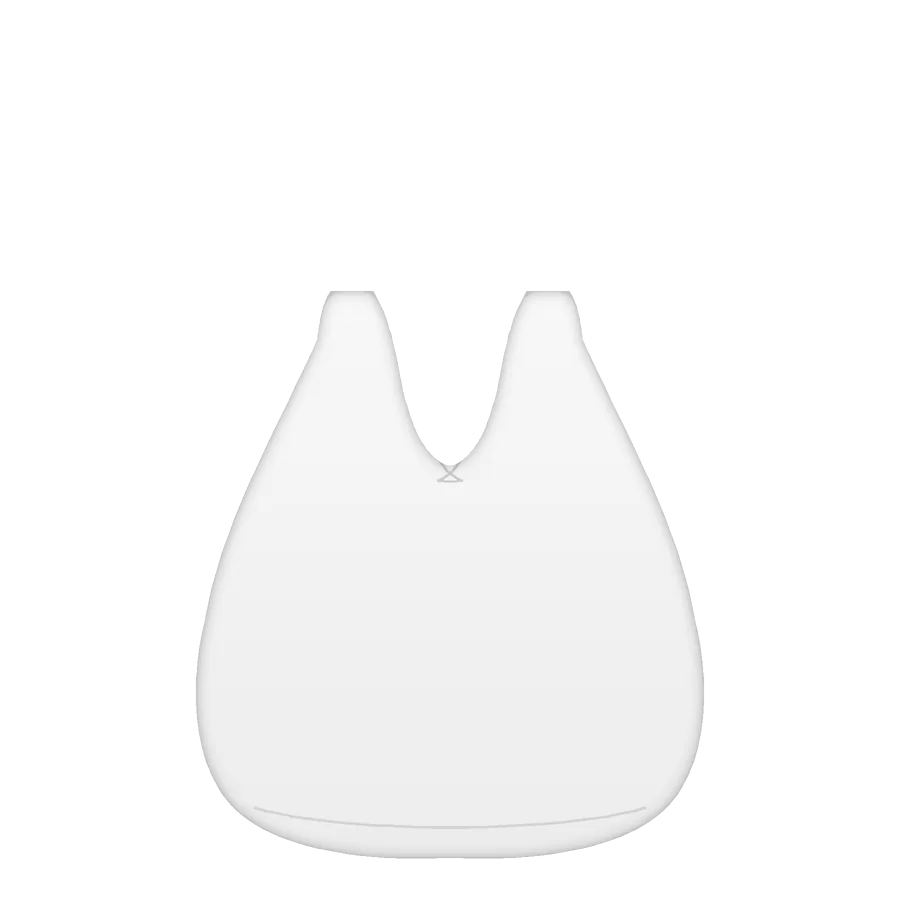
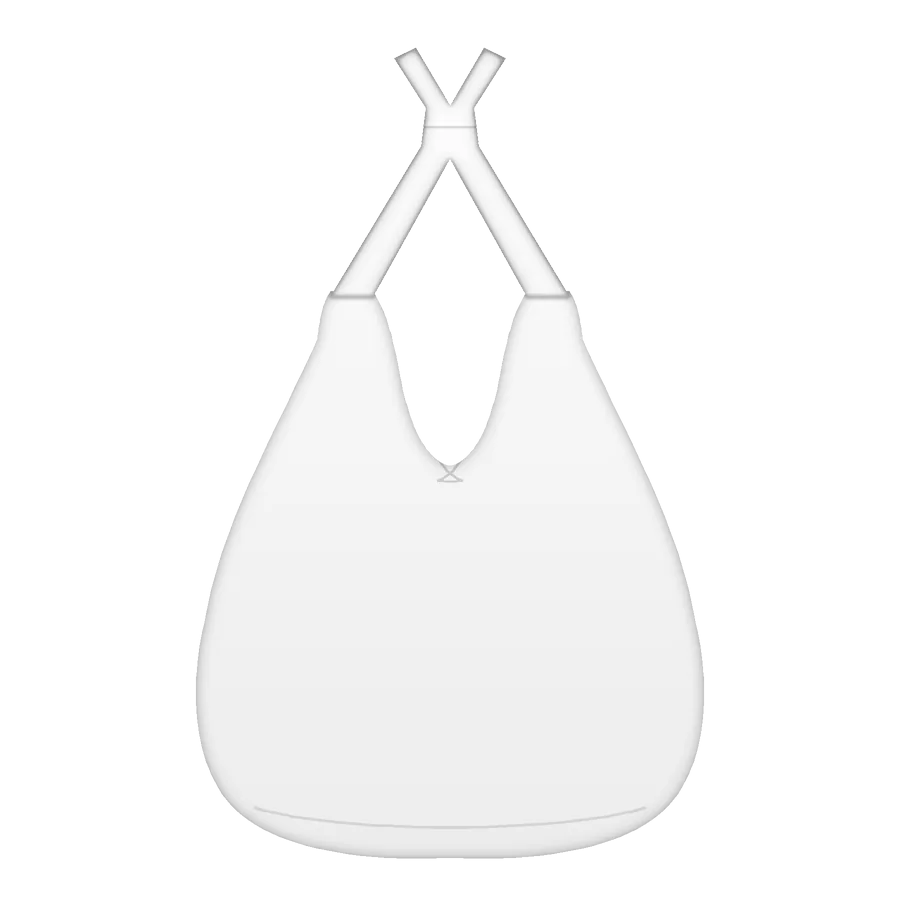
fix(tui): lace style = the plain straps with lace sewn along both edges (not a bow)
Claude-Session: https://claude.ai/code/session_01XuGc1emL7LJH73FGACZt11

Changed region(s): [[0.3733, 0.0311, 0.6533, 0.3422]]

diff --git a/js/patch.js b/js/patch.js
@@ -208,7 +208,7 @@
   var MAX_POCKETS = 5, CUSTOM_CM = [3, 200];
   // how a tie bag is tied on the shoulder (PRODUCTS[x].ties)
   var TIES = { thuong: { vi: 'Dây thẳng', en: 'Plain straps' }, no: { vi: 'Thắt nơ', en: 'Bow' },
-    xoan: { vi: 'Dây xoắn (nhún bèo)', en: 'Ruffled strap' }, ren: { vi: 'Dây ren', en: 'Lace ribbon' } };
+    xoan: { vi: 'Dây xoắn (nhún bèo)', en: 'Ruffled strap' }, ren: { vi: 'Dây viền ren', en: 'Lace-edged straps' } };
   function tieOf(d) { var p = PRODUCTS[d.product]; return p.ties ? p.ties[(d.ext && d.ext.t) || 0] || p.ties[0] : null; }
   function sizesOf(product) { return SIZES[product] || [{ w: 0, h: 0 }]; }
   function sizeLabel(product, i, l) {
@@ -1346,7 +1346,7 @@
       no: { parts: [{ id: 'quai', d: 'M125 112L161 52L171 58L141 112ZM215 112L179 52L169 58L199 112ZM164 50L146 76L154 80L170 54ZM176 50L194 76L186 80L170 54ZM167.5 37.6L167.6 39.6L167.1 41.6L164.2 45.6L159.3 49.1L156.2 50.6L149.3 52.8L145.7 53.4L138.7 53.5L132.7 52.3L128.5 49.8L127.2 48.2L126.5 46.4L126.4 44.4L126.9 42.4L129.8 38.4L134.7 34.9L137.8 33.4L144.7 31.2L151.9 30.4L158.5 31L161.3 31.7L163.6 32.8L165.5 34.2L166.8 35.8ZM213.5 46.4L212.8 48.2L211.5 49.8L207.3 52.3L201.3 53.5L194.3 53.4L190.7 52.8L183.8 50.6L178 47.4L174.1 43.6L172.9 41.6L172.4 39.6L172.5 37.6L173.2 35.8L174.5 34.2L178.7 31.7L184.7 30.5L191.7 30.6L195.3 31.2L202.2 33.4L208 36.6L211.9 40.4L213.1 42.4L213.6 44.4ZM162 36L178 36L179 52L161 52Z' }] },
       thuong: { parts: [{ id: 'quai', d: 'M125 112L161 52L171 58L141 112ZM215 112L179 52L169 58L199 112ZM163 44L149 22L157 18L170 40ZM177 44L191 22L183 18L170 40ZM161 40L179 40L181 57L159 57Z' }] },
       xoan: { parts: [{ id: 'quai', d: 'M139 111.5L143.4 109.8L145.6 108.3L146.5 106.8L146.3 105.5L144.7 104.3L140.3 102.2L143.6 100.7L145.4 99.3L146 97.9L145.4 96.6L143.5 95.3L140.3 94.4L141.1 93.1L144 91.7L145.5 90.3L145.7 89L144.8 87.7L138.7 85.3L142.2 84.1L144.6 82.8L145.8 81.5L145.7 80.7L144.5 79.3L139.8 76.3L145.6 74.5L146.5 73.3L146.2 71.9L144.7 70.4L141.7 69.2L142.1 67.8L145.2 67L147.1 65.9L147.7 64.7L145.3 62.2L142 60.1L144.8 59.3L147.5 59.3L149.1 58.4L149.5 57.1L144.1 51.9L147.9 52.6L150.4 52.2L151.8 51.4L152 50L150.8 49L148.6 45.6L152 46.2L154.7 46.2L154.9 44.7L154.2 42.4L151.9 39.9L154.2 40.1L156.2 41.8L158.2 42L158.7 40.3L158.4 37.7L156.6 34L159.9 37L161.2 38.9L162.9 39.2L163.6 37.2L163.2 34.5L164.1 32.8L165.4 36L167.5 38.2L168.7 37.4L170.3 32.3L171 33.4L171.4 36.2L172.8 38.1L174.3 37.4L177.5 31.7L177 35.4L177.4 38.1L177.1 39.2L178.4 39.7L179.2 38.5L183.2 35.4L182.2 39.1L182.2 41.5L181.7 42.1L183 42.7L184.3 41.5L187.5 40.4L187.6 41L186.1 43.9L185.4 46.3L186.8 46.9L189.3 46.9L192.8 45.6L190.9 48.1L188.9 49.6L188.4 51.3L188.9 52.5L190.6 53.3L193 52.9L196.2 53.2L191.2 56.9L190.8 58.4L191.5 59.6L196.4 60.4L197 61.7L192.8 64.6L192.5 66L193.5 67.2L195.6 68.2L199.3 69L194.9 71.8L193.7 73.3L193.7 74.6L197.4 76.4L201.2 77.5L197.2 79.1L194.1 81.5L194.4 82.8L196 84.1L198.8 85.4L199.9 86.7L196.7 87.7L194.8 89L194.2 90.3L194.8 91.7L196.7 93.1L200 94.4L195.8 96.6L194.3 97.9L194 99.2L194.9 100.6L197.1 102.1L201.3 103.4L197.1 104.4L194.7 105.6L193.5 106.8L193.5 108.2L194.8 109.6L197.3 111.2L220.2 113.1L218.4 111.6L215 110L219.8 107.7L221.3 106.4L221.5 105.1L220.5 103.3L218.3 101.8L214.4 100.3L218.7 99.1L221 97.9L222 96.6L221.8 94.8L220.4 93.4L217.6 92L216.4 90.7L219.8 89.4L221.6 88.1L222.2 86.2L221.6 84.9L219.7 83.6L216.4 82.3L217.5 80.9L221.6 77.6L221.8 76.2L220.7 74.9L218.4 73.7L214.1 72.4L217.8 70.6L220 69L220.9 67.6L220.6 65.5L219 64.4L214 62.5L217.3 60.6L218.8 58.3L219.2 56.8L218.4 55.6L212.9 53.5L213 52.1L215.4 50L216.3 47.5L216.2 46.1L212.2 43.8L208.1 44.1L212.1 39.5L212.1 36.8L211.5 35.7L209.2 34.2L203.3 34.7L206 28.5L205.8 26.9L203.8 25.2L198 25.8L196.8 25.1L196.9 19L196 17.9L193.4 17.1L187.6 20.3L187.3 17.7L185.3 12.7L182.9 11.9L178.6 14.5L176.6 17.7L174.1 11.2L171.8 10.1L169.5 10.3L166.3 14.8L165.1 15.9L160.9 11.5L158.4 11.4L157.2 12.4L155.5 14.9L155.4 18.5L152.8 18L150.5 16.1L147.5 16L146.2 16.5L144.6 18.8L144.8 21.4L146.3 25.7L139.5 22.9L136.9 24L136.1 25.1L135.5 27.9L136.8 30.6L137.3 32.7L130.9 32.6L129.6 33.4L128.9 35.8L131.7 41.1L130.5 42.1L127.3 42.1L125.4 42.8L124.3 44.8L124.7 46.4L129.4 51.4L123.2 52.4L121.5 54.2L121.3 55.5L122.2 57.1L126.5 61.2L122.7 62L120.4 63L119.4 64.2L119.7 65.6L121.1 67.8L123.9 69.4L123.8 70.8L120.6 71.8L118.8 73.6L118.3 74.9L119 76.3L120.9 77.7L124.5 79.3L119.3 82.2L118 83.5L117.9 84.8L121.5 88L124.8 89.3L120.9 90.7L118.8 92.1L117.9 93.4L118.2 94.8L119.8 96.5L122.8 97.7L123.5 99L120.4 100.5L118.7 102L118.3 103.3L119.1 105.1L121.1 106.2L124.6 107.3L123 108.8L120.5 110.3L119.2 111.8L119.1 113.1ZM141.5 119.1L140.1 121.1L137.9 122.6L135.2 123.2L130.6 122.6L127.9 121.1L125.7 119.1L124.5 116.6L124.3 114.1L125.1 111.8L126.9 110L130.8 108.8L133.9 109L136.8 110.1L140.3 112.9L141.5 115.4L141.7 117.9ZM215.5 112.9L215.8 115.4L214.3 119.1L212.1 121.1L209.4 122.6L206.4 123.2L203.4 123L200.9 122L199.1 120.2L198.5 119.1L198.2 116.6L199 114.1L200.7 111.8L203.2 110.1L206.1 109L210.6 109L213.1 110L214.9 111.8Z' }] },
-      ren: { parts: [], top: 1 }
+      ren: { parts: [{ id: 'quai', d: 'M125 112L161 52L171 58L141 112ZM215 112L179 52L169 58L199 112ZM163 44L149 22L157 18L170 40ZM177 44L191 22L183 18L170 40ZM161 40L179 40L181 57L159 57Z' }], top: 1 }
     } },
     laptopq: { n: 'laptopq', bag: 1, box: [37, 136, 302, 272], top: 1, snap: [170, 142],
       parts: [{ id: 'quai', d: 'M58 150L58.3 120.7L59 111.8L62 95L64.2 87.2L66.8 79.8L69.9 72.8L73.3 66.1L81.4 54L90.9 43.5L96.1 38.8L101.7 34.5L107.5 30.7L119.9 24.1L126.5 21.4L140.3 17.3L154.9 14.8L170 14L185.1 14.8L199.7 17.3L213.5 21.4L220.1 24.1L232.5 30.7L238.3 34.5L243.9 38.8L249.1 43.5L258.6 54L266.7 66.1L270.1 72.8L273.2 79.8L275.8 87.2L278 95L281 111.8L281.7 120.7L282 150L269 150L268.8 121.6L267 105.8L265.4 98.4L263.5 91.4L258.5 78.5L252 67.1L244.3 57.1L235.3 48.5L230.4 44.8L225.3 41.4L214.3 35.7L202.4 31.4L196.2 29.8L183.4 27.7L170 27L156.6 27.7L143.8 29.8L137.6 31.4L125.7 35.7L114.7 41.4L104.7 48.5L95.7 57.1L91.7 61.9L84.6 72.6L81.5 78.5L76.5 91.4L74.6 98.4L73 105.8L71.2 121.6L71 150Z' }, { id: 'day', d: 'M41.7 273L292.1 273L292.1 278.4L290.5 282.3L290.5 298.7L288.9 303.4L285 307.3L279.6 308.8L231.2 312L132.2 308.1L65.1 307.3L51.8 304.9L44 299.5Z' }] }

diff --git a/tools/bag-assets.py b/tools/bag-assets.py
@@ -17,7 +17,8 @@ Two kinds of bag:
                                 line up), box-X stitched tabs
               tuibuoc-<style>   tie shoulder bag: two points tied on the shoulder,
                                 plain straps knotted (thuong), a bow (no), a
-                                ruffled strap (xoan) or lace ribbon (ren)
+                                ruffled strap (xoan) or plain straps edged
+                                with lace (ren)
               laptopq           the laptop sleeve painting, smaller, with a
                                 shoulder strap drawn over it
 
@@ -374,8 +375,8 @@ def drawn(name, src=None, style='no'):
         body = left + side(-1)[::-1]
         # the straps from each point, and how they meet on the shoulder
         # (style): plain straps knotted (thuong, in the price), a bow, a
-        # ruffled strap over the shoulder (xoan), or lace ribbon tied in a bow
-        # (lace is drawn as is, cream, over the fabric)
+        # ruffled strap over the shoulder (xoan), or the plain straps with lace
+        # sewn along their edges (ren; the lace is drawn as is, cream)
         def loop(cx, cy, rx, ry, rot):
             r = math.radians(rot)
             return [(cx + rx * math.cos(t) * math.cos(r) - ry * math.sin(t) * math.sin(r),
@@ -383,12 +384,12 @@ def drawn(name, src=None, style='no'):
                     for t in [k * math.pi / 18 for k in range(36)]]
         mirror = lambda q: [(340 - x, y) for x, y in q]
         tie_l = [(125, 112), (161, 52), (171, 58), (141, 112)]
-        if style in ('no', 'ren'):
+        if style == 'no':
             tail_l = [(164, 50), (146, 76), (154, 80), (170, 54)]
             ties = [tie_l, mirror(tie_l), tail_l, mirror(tail_l), loop(147, 42, 21, 11, -12), loop(193, 42, 21, 11, 12),
                     [(162, 36), (178, 36), (179, 52), (161, 52)]]
             folds = [[(158, 40), (182, 40)], [(158, 47), (182, 47)]]
-        elif style == 'thuong':
+        elif style in ('thuong', 'ren'):   # ren: the same plain straps, lace sewn along both edges
             tail_l = [(163, 44), (149, 22), (157, 18), (170, 40)]
             ties = [tie_l, mirror(tie_l), tail_l, mirror(tail_l), [(161, 40), (179, 40), (181, 57), (159, 57)]]
             folds = [[(160, 48), (180, 48)]]
@@ -423,36 +424,50 @@ def drawn(name, src=None, style='no'):
                 if abs(math.sin(d * math.pi / 9)) < 0.12:                    # at each pinch
                     folds.append([(x - nx * 5, y - ny * 5), (x + nx * 12, y + ny * 12)])
         fill(A, body)
+        for q in ties:
+            fill(A, q)
+        parts['quai'] = ''.join(path(q) for q in ties)
+        for f in folds:
+            line(marks, f, 120 if style == 'xoan' else 90, 1.1 if style == 'xoan' else 1.0)
         if style == 'ren':
-            T = Image.new('RGBA', (SIDE * S2, SIDE * S2))
-            m = canvas()
-            for q in ties:
-                fill(m, q)
-            lace = Image.new('RGBA', T.size, (243, 236, 222, 245))
-            dr = ImageDraw.Draw(lace)
+            # cream lace along both long edges of each strap, drawn as is over
+            # the fabric: a band with little holes and a scalloped outer edge
             u = K * S2
-            for gy in range(0, 340, 4):                                      # the lace's holes
-                for gx in range(0, 340, 4):
-                    ox = 2 if (gy // 4) % 2 else 0
-                    dr.ellipse([(gx + ox - 0.9) * u, (gy - 0.9) * u, (gx + ox + 0.9) * u, (gy + 0.9) * u], fill=(214, 202, 180, 255))
-            T.paste(lace, (0, 0), m)
+            T = Image.new('RGBA', (SIDE * S2, SIDE * S2))
+            band = canvas()
+            scallops = []
+            for q in (tie_l, mirror(tie_l)):
+                cx, cy = sum(x for x, _ in q) / 4, sum(y for _, y in q) / 4
+                for p0, p1 in ((q[0], q[1]), (q[2], q[3])):
+                    dx, dy = p1[0] - p0[0], p1[1] - p0[1]
+                    L = math.hypot(dx, dy)
+                    ux, uy = dx / L, dy / L
+                    nx, ny = -uy, ux
+                    mx, my = (p0[0] + p1[0]) / 2, (p0[1] + p1[1]) / 2
+                    if (mx - cx) * nx + (my - cy) * ny < 0:
+                        nx, ny = -nx, -ny
+                    # leave the knot and the bag's point clear
+                    a0, a1 = 8, L - 4
+                    e0 = (p0[0] + ux * a0, p0[1] + uy * a0)
+                    e1 = (p0[0] + ux * a1, p0[1] + uy * a1)
+                    fill(band, [e0, e1, (e1[0] + nx * 4.4, e1[1] + ny * 4.4), (e0[0] + nx * 4.4, e0[1] + ny * 4.4)])
+                    t = a0
+                    while t <= a1:
+                        scallops.append((p0[0] + ux * t + nx * 4.6, p0[1] + uy * t + ny * 4.6))
+                        t += 3.6
+            lace = Image.new('RGBA', T.size, (251, 248, 241, 255))
+            dl = ImageDraw.Draw(lace)
+            for gy in range(0, 340, 2):                                      # the lace's holes
+                for gx in range(0, 340, 2):
+                    ox = 1 if (gy // 2) % 2 else 0
+                    dl.ellipse([(gx + ox - 0.45) * u, (gy - 0.45) * u, (gx + ox + 0.45) * u, (gy + 0.45) * u], fill=(196, 180, 152, 255))
+            T.paste(lace, (0, 0), band)
             dr = ImageDraw.Draw(T)
-            for q in ties:                                                   # scalloped edges
-                for (x0, y0), (x1, y1) in zip(q, q[1:] + q[:1]):
-                    n = max(1, int(math.hypot(x1 - x0, y1 - y0) / 3))
-                    for i in range(n):
-                        x, y = x0 + (x1 - x0) * i / n, y0 + (y1 - y0) * i / n
-                        dr.ellipse([(x - 1.7) * u, (y - 1.7) * u, (x + 1.7) * u, (y + 1.7) * u],
-                                   fill=(246, 240, 228, 255), outline=(190, 176, 150, 255), width=max(1, int(0.35 * u)))
-            for f in folds:
-                dr.line([(x * u, y * u) for x, y in f], fill=(176, 160, 132, 255), width=max(1, int(0.8 * u)))
+            for x, y in scallops:
+                dr.ellipse([(x - 2.4) * u, (y - 2.4) * u, (x + 2.4) * u, (y + 2.4) * u],
+                           fill=(251, 248, 241, 255), outline=(168, 150, 120, 255), width=max(1, int(0.35 * u)))
+            T.paste(lace, (0, 0), band)                                      # the band over the scallops' inner halves
             top = T.resize((SIDE, SIDE), Image.LANCZOS)
-        else:
-            for q in ties:
-                fill(A, q)
-            parts['quai'] = ''.join(path(q) for q in ties)
-            for f in folds:
-                line(marks, f, 120 if style == 'xoan' else 90, 1.1 if style == 'xoan' else 1.0)
         # topstitch round the mouth and the points, the side seam of the gusset
         inner = [(x + (6 if x < 170 else -6 if x > 170 else 0), y + 6) for x, y in left[-14:]]
         line(marks, inner, 110, 1.0, dash=(5, 4))

diff --git a/tools/check-studio.py b/tools/check-studio.py
@@ -2994,7 +2994,7 @@ async def tui(browser, db):
         check(all(drawn), f'{name}: each shape draws its own bag ({drawn})')
         # the tie bag: four ways to tie it on the shoulder, each drawn
         ties = await pg.evaluate("[...document.querySelectorAll('[data-tie]')].map(b => b.textContent)")
-        check(len(ties) == 4 and ties[0] == 'Dây thẳng', f'{name}: "Kiểu buộc vai": four ways, plain straps first ({ties})')
+        check(len(ties) == 4 and ties[0] == 'Dây thẳng' and ties[3].startswith('Dây viền ren'), f'{name}: "Kiểu buộc vai": four ways, plain straps first ({ties})')
         pt0 = num(await pg.evaluate(price))
         await js_click(pg, '[data-tie="2"]')
         await pg.wait_for_timeout(250)
@@ -3002,8 +3002,8 @@ async def tui(browser, db):
               f'{name}: "Dây xoắn (nhún bèo)" draws the ruffle, +30.000đ')
         await js_click(pg, '[data-tie="3"]')
         await pg.wait_for_timeout(250)
-        check(await pg.evaluate("!!document.querySelector('.pt-board image[href*=\"mon-tuibuoc-ren-top\"]') && window.GemPatch.slots(window.GemPatch.parse(new URL(window.GemPatch.url('2~tuibuoc~mot~~~~~~~~~~t3')).searchParams.get('d'))) === 1"),
-              f'{name}: "Dây ren": cream lace drawn over, no fabric for the ties')
+        check(await pg.evaluate("!!document.querySelector('.pt-board image[href*=\"mon-tuibuoc-ren-top\"]') && window.GemPatch.slots(window.GemPatch.parse('2~tuibuoc~mot~~~~~~~~~~t3')) === 2"),
+              f'{name}: "Dây viền ren": the plain straps in the fabric, cream lace drawn along them')
         await js_click(pg, '.pt-shapes [data-shape="tuitote"]')
         await js_click(pg, '.pt-layouts [data-layout="mot"]')
         await pg.wait_for_timeout(300)

diff --git a/docs/design.md b/docs/design.md
@@ -1994,9 +1994,9 @@ hai migration chỉ chạy khi merge: `20261015_kho_vai_photo.sql` (ảnh lớn 
     - **Túi buộc vai** (mẫu Anna gửi 14/10, thay túi bán nguyệt vì dáng bán nguyệt trông già): thân
       2 đỉnh nhô, miệng khoét, mảnh hông/đáy, hai đỉnh buộc trên vai. **Kiểu buộc vai** là một
       lựa chọn (field 13 `t<i>`): **dây thẳng** (mặc định, đã gồm trong giá), thắt nơ (+10k, tạm),
-      **dây xoắn = dây nhún bèo** (+30k, Anna chốt), dây ren (+20k, tạm). "Dây tạo kiểu thì cộng
-      thêm tiền" (Anna 14/10). Mỗi kiểu một bộ tranh `mon-tuibuoc-<kiểu>-*`. Dây ren màu kem vẽ sẵn,
-      không lấy vải trong rổ (bớt một ô vải).
+      **dây xoắn = dây nhún bèo** (+30k, Anna chốt), **dây viền ren** = dây thẳng may thêm ren dọc
+      hai mép (+20k, tạm; ren vẽ màu kem trên dây vải). "Dây tạo kiểu thì cộng thêm tiền" (Anna
+      14/10). Mỗi kiểu một bộ tranh `mon-tuibuoc-<kiểu>-*`.
     - Túi dây rút đã bỏ (Anna 14/10: không làm chính).
   - Tote **vẽ lại cho đứng thẳng, không rủ như ảnh** (Anna 14/10): đáy phẳng, miệng thẳng, quai
     vòng đều, tab quai may chữ X.
